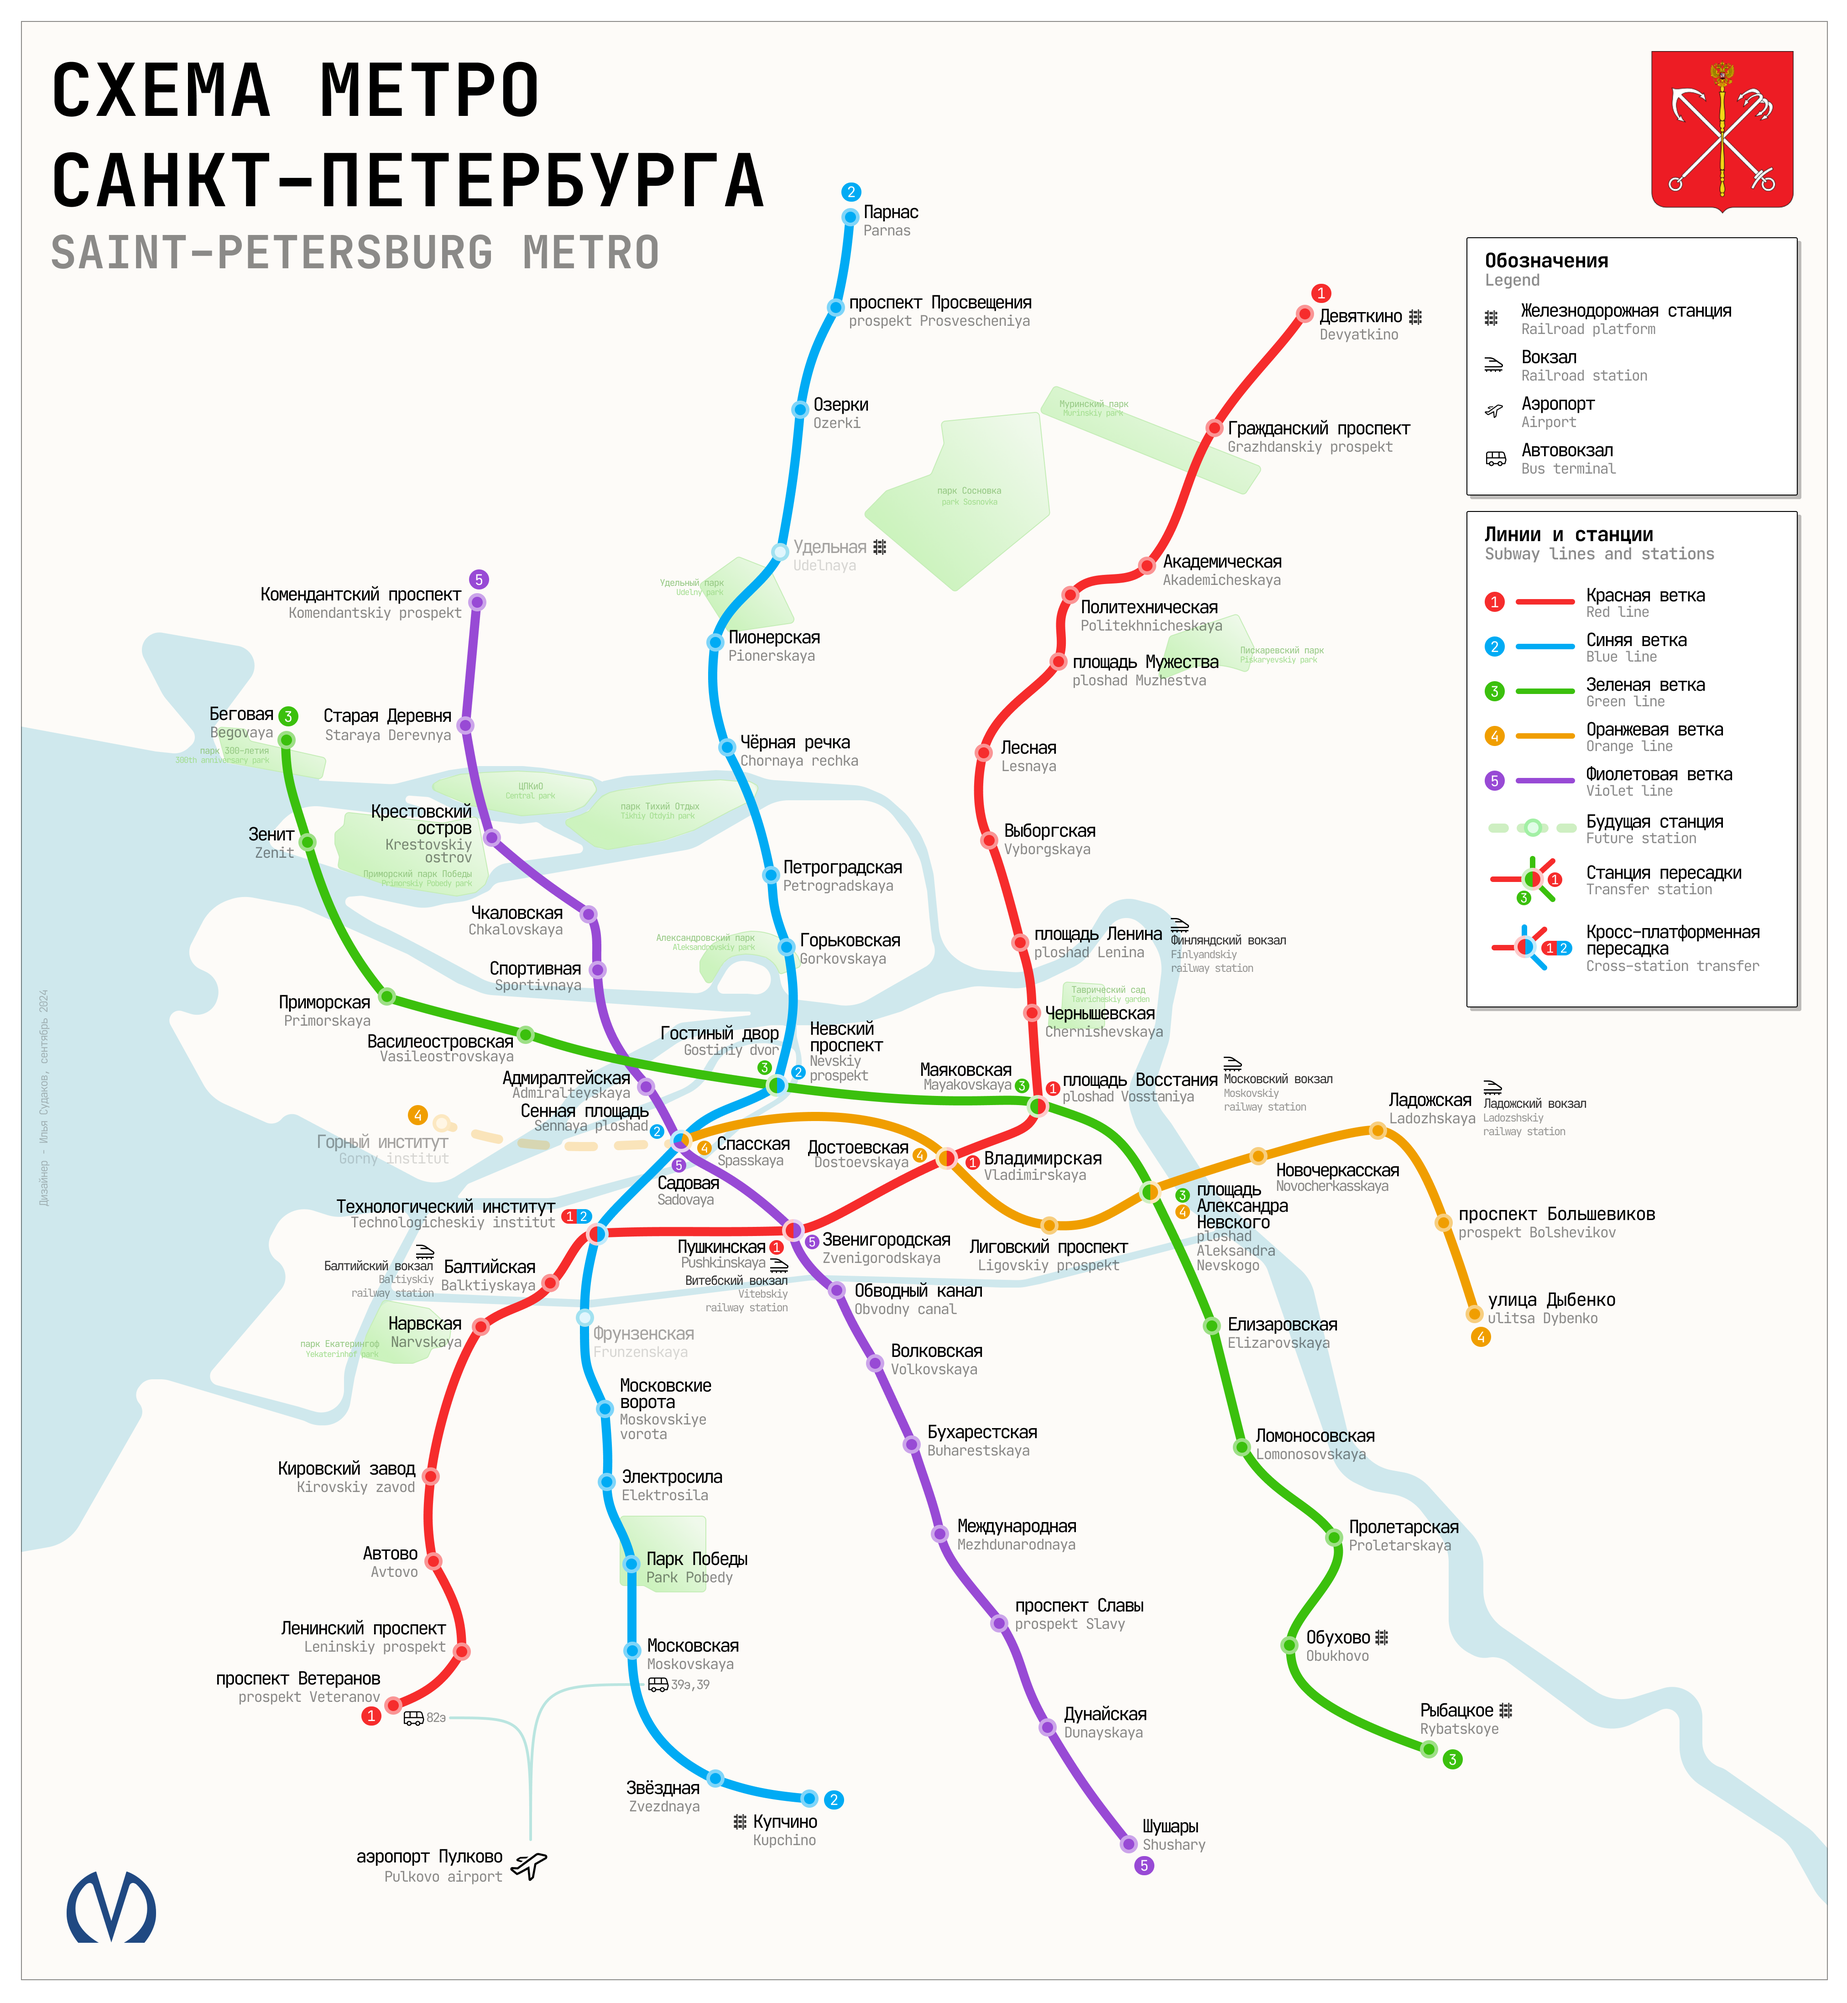
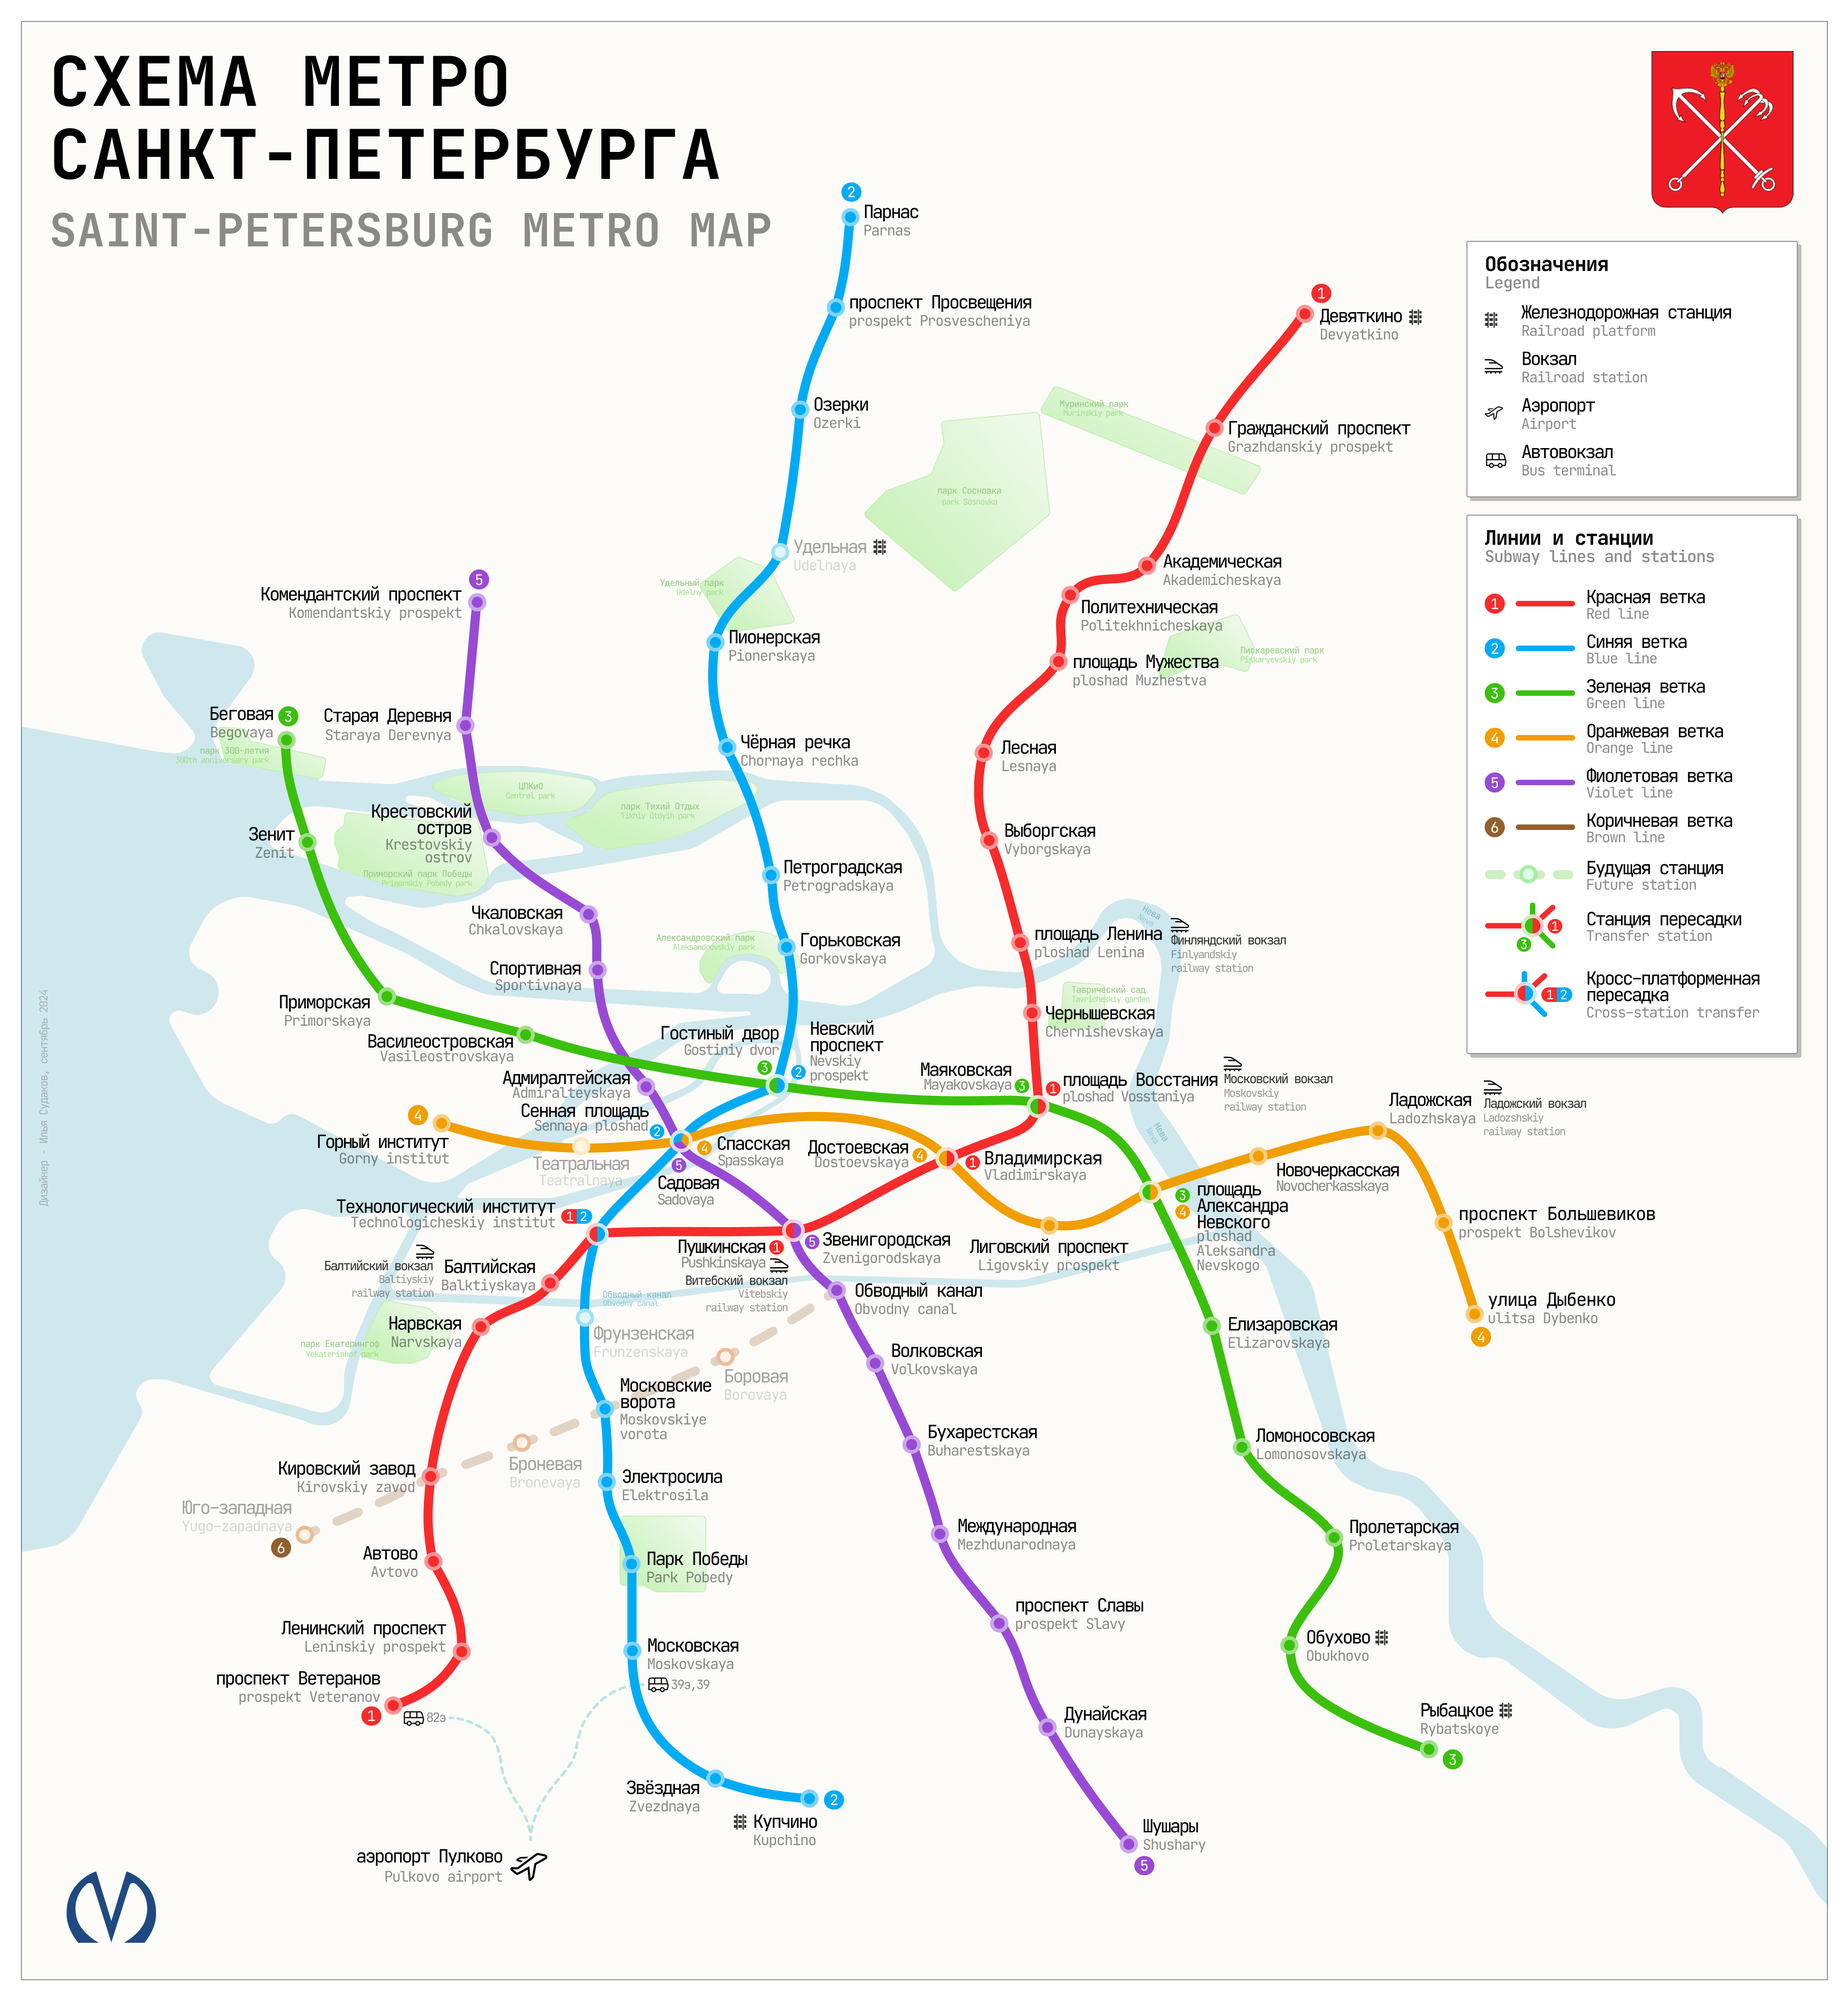
Added Jr ProdMgr title

diff --git a/ru/index.html b/ru/index.html
@@ -84,9 +84,20 @@
       href="https://improvado.io">Improvado</a></h3>
       <ul>
       <li><h4
-      id="бизнес-аналитиктехнический-писатель-санкт-петербург-ноя-2023---сейчас"><span>Бизнес-аналитик/Технический
-      писатель</span> <span><em>Санкт-Петербург</em>, Ноя 2023 -
-      сейчас</span></h4>
+      id="младший-продуктовый-менеджер-санкт-петербург-дек-2024---сейчас"><span>Младший
+      Продуктовый Менеджер</span> <span><em>Санкт-Петербург</em>, Дек
+      2024 - сейчас</span></h4>
+      <ul>
+      <li>Анализ и подготовка фичей, их сопровождение во время
+      разработки</li>
+      <li>Сам создавал большинство прототипов в Figma, Bolt.new (живые
+      прототипы на React+Ant Design)</li>
+      <li>Работа с командой дизайнеров, разработчиков</li>
+      </ul></li>
+      <li><h4
+      id="бизнес-аналитиктехнический-писатель-санкт-петербург-ноя-2023---дек-2024"><span>Бизнес-аналитик/Технический
+      писатель</span> <span><em>Санкт-Петербург</em>, Ноя 2023 - Дек
+      2024</span></h4>
       <ul>
       <li>Анализ и описание требований для продуктовых фичей</li>
       <li>Работа с командой дизайнеров, разработчиков и менеджером по

diff --git a/en/index.html b/en/index.html
@@ -84,9 +84,21 @@ developer</div>
       href="https://improvado.io">Improvado</a></h3>
       <ul>
       <li><h4
-      id="technical-writerbusiness-analyst-saint-petersburg-nov-2023---now"><span>Technical
+      id="jr-product-manager-saint-petersburg-dec-2024---сейчас"><span>Jr
+      Product Manager</span> <span><em>Saint-Petersburg</em>, Dec 2024 -
+      сейчас</span></h4>
+      <ul>
+      <li>Analysis, preparation, and maintenance of product
+      features</li>
+      <li>Created a majority of prototypes myself in Figma, Bolt.new
+      (Live prototypes in React+Ant Design)</li>
+      <li>Worked with a team of designers, developers and product
+      managers</li>
+      </ul></li>
+      <li><h4
+      id="technical-writerbusiness-analyst-saint-petersburg-nov-2023---dec-2024"><span>Technical
       writer/Business Analyst</span> <span><em>Saint-Petersburg</em>,
-      Nov 2023 - now</span></h4>
+      Nov 2023 - Dec 2024</span></h4>
       <ul>
       <li>Analysed and created requirements for product features</li>
       <li>Worked with a team of designers, developers and product

diff --git a/ru/index.md b/ru/index.md
@@ -24,7 +24,11 @@ language_column_title: Язык
 <section class="experience-list">
 
 - ### [Improvado](https://improvado.io)
-  - #### <span>Бизнес-аналитик/Технический писатель</span> <span>_Санкт-Петербург_, Ноя 2023 - сейчас</span>
+  - #### <span>Младший Продуктовый Менеджер</span> <span>_Санкт-Петербург_, Дек 2024 - сейчас</span>
+    - Анализ и подготовка фичей, их сопровождение во время разработки
+    - Сам создавал большинство прототипов в Figma, Bolt.new (живые прототипы на React+Ant Design)
+    - Работа с командой дизайнеров, разработчиков
+  - #### <span>Бизнес-аналитик/Технический писатель</span> <span>_Санкт-Петербург_, Ноя 2023 - Дек 2024</span>
     - Анализ и описание требований для продуктовых фичей
     - Работа с командой дизайнеров, разработчиков и менеджером по продукту
     - Создал AI Агента с crewAI для написания продуктовой документации (юзер стори, исследование конкурентов и т.д.)

diff --git a/en/index.md b/en/index.md
@@ -24,7 +24,11 @@ Currently working on pet projects - design + web.
 <section class="experience-list">
 
 - ### [Improvado](https://improvado.io)
-  - #### <span>Technical writer/Business Analyst</span> <span>_Saint-Petersburg_, Nov 2023 - now</span>
+  - #### <span>Jr Product Manager</span> <span>_Saint-Petersburg_, Dec 2024 - сейчас</span>
+    - Analysis, preparation, and maintenance of product features
+    - Created a majority of prototypes myself in Figma, Bolt.new (Live prototypes in React+Ant Design)
+    - Worked with a team of designers, developers and product managers
+  - #### <span>Technical writer/Business Analyst</span> <span>_Saint-Petersburg_, Nov 2023 - Dec 2024</span>
     - Analysed and created requirements for product features
     - Worked with a team of designers, developers and product managers
     - Created an AI Agent using crewAI to write product documentation (user stories, competitor research, etc.)
